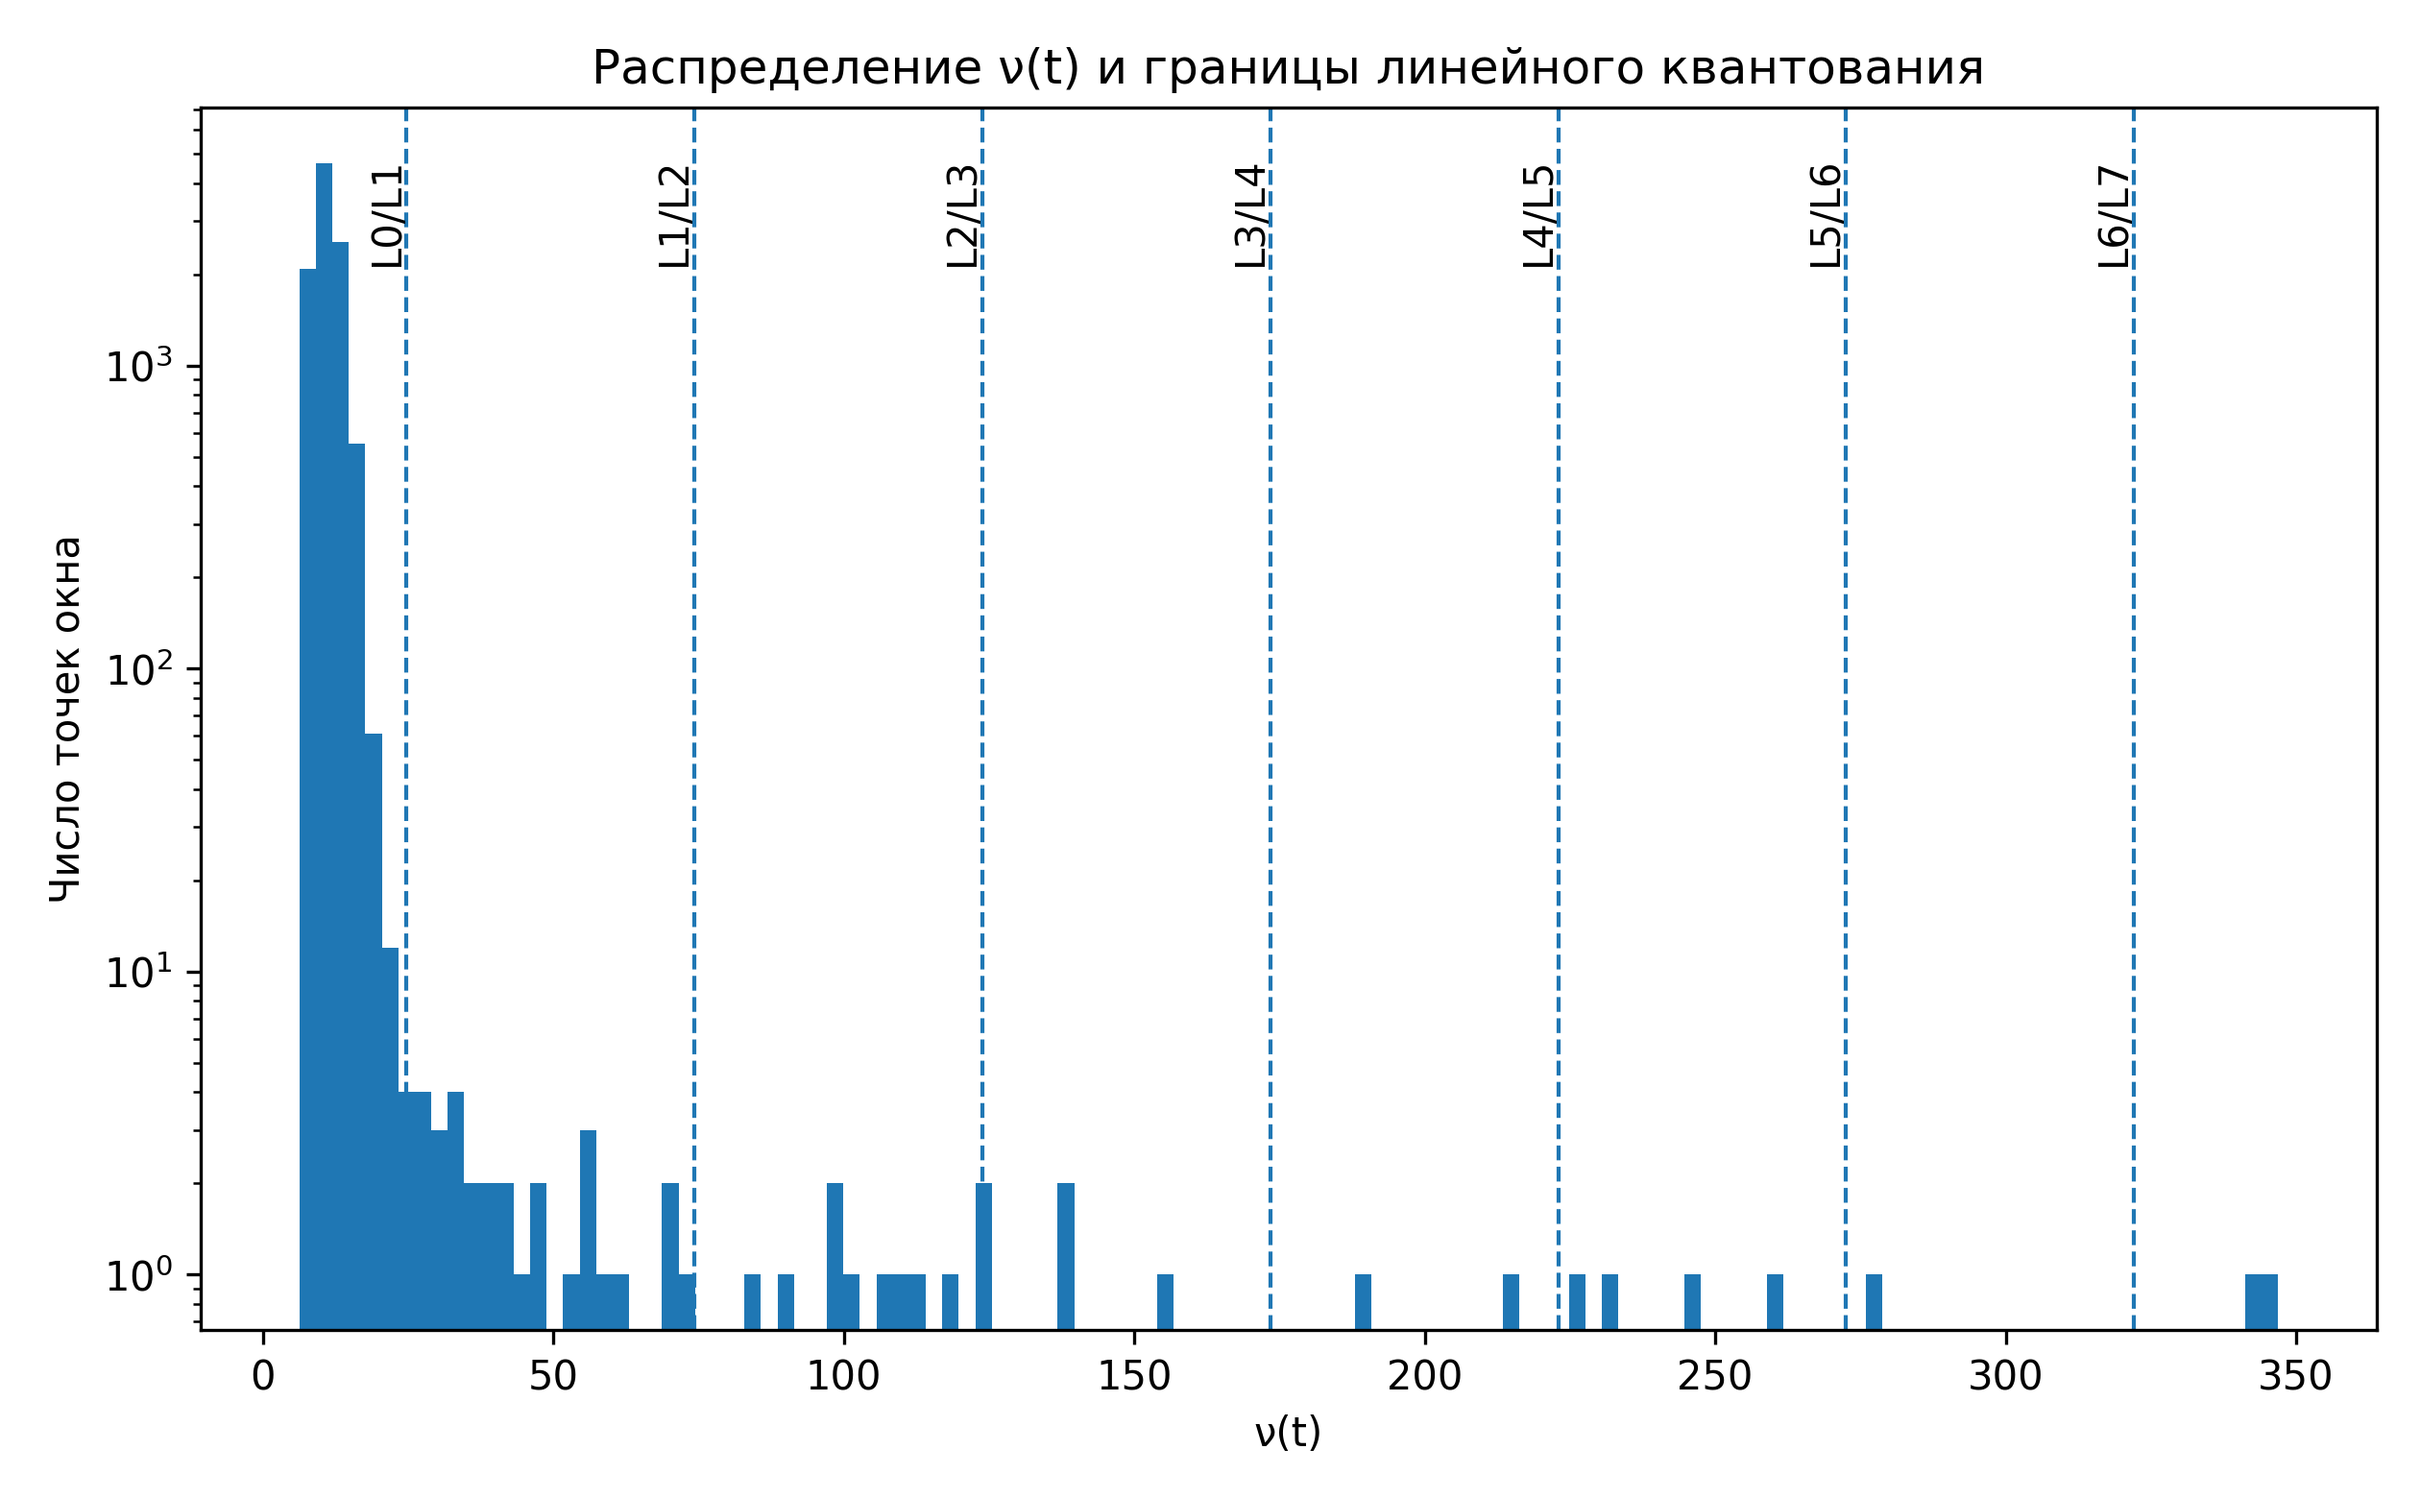
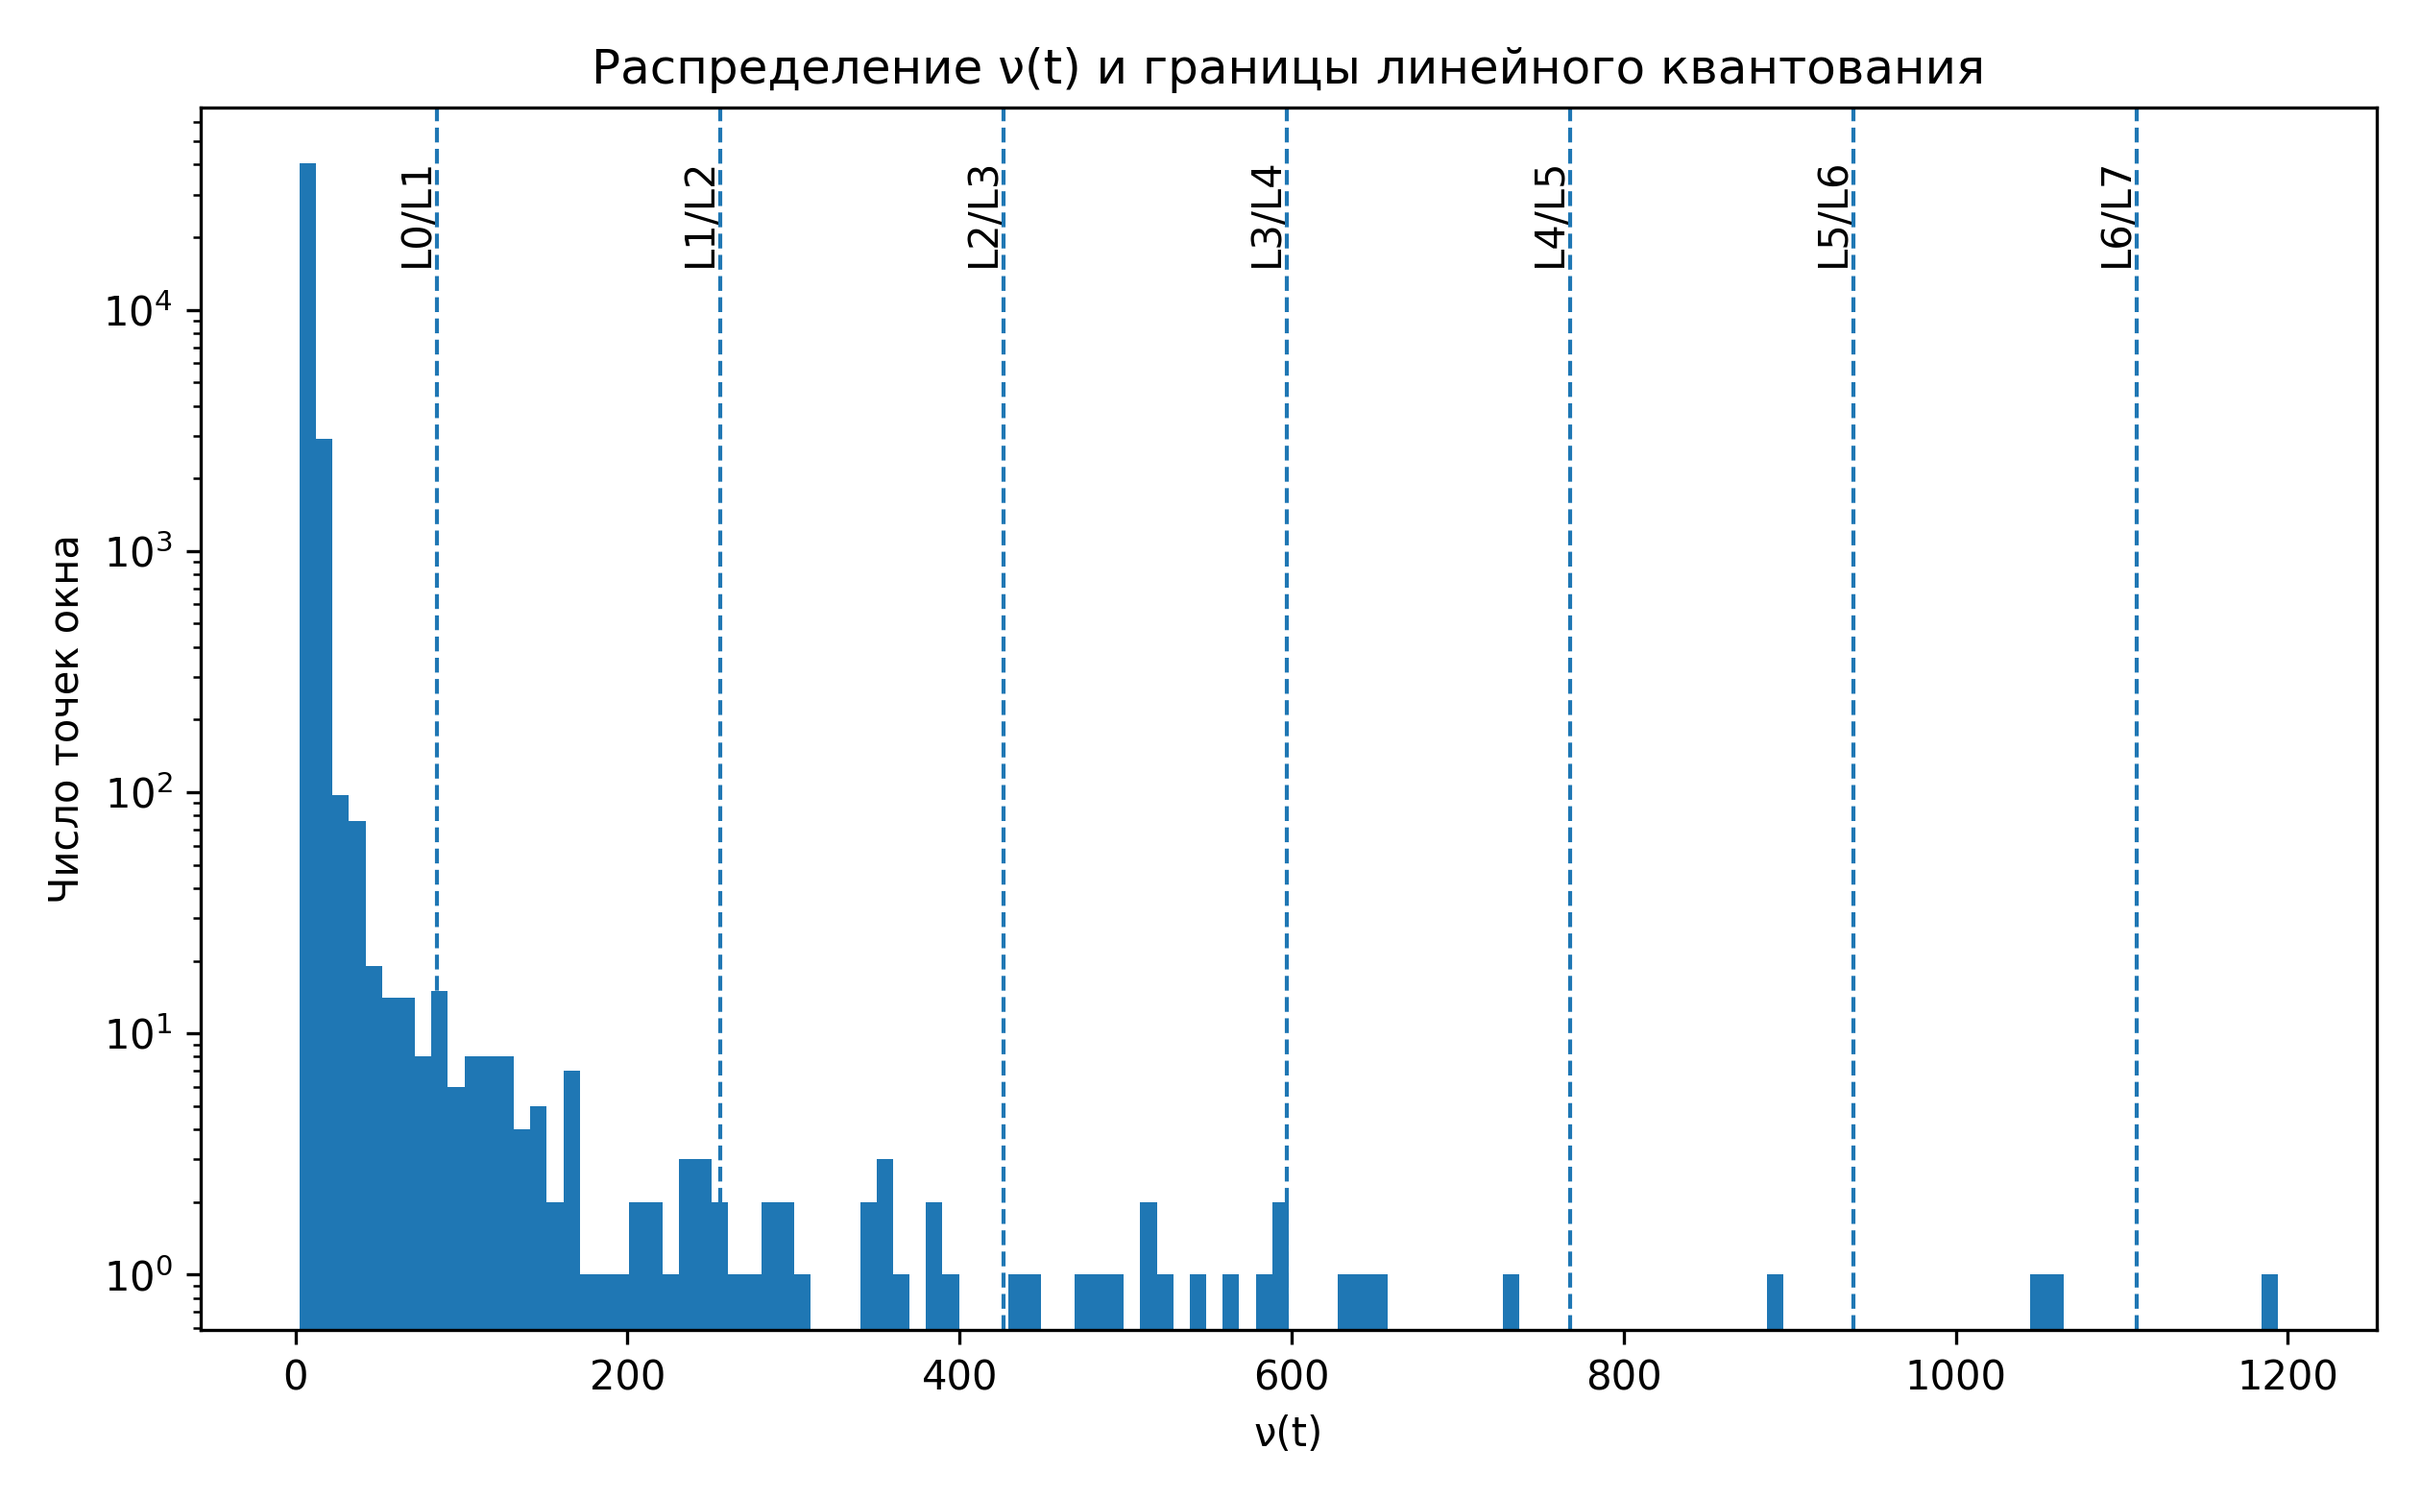
Regenerate paper upset-series diagnostics with full series

diff --git a/results/paper/tables/upsets_window_summary.md b/results/paper/tables/upsets_window_summary.md
@@ -5,46 +5,46 @@
 ## Параметры окна
 
 - Начальный индекс: 0
-- Размер окна: 10000
-- Модельных тактов: 10000
-- Часов ряда на один модельный такт: 1.000000
-- Модельных тактов на один час ряда: 1.000000
+- Размер окна: 43824
+- Модельных тактов: 50000
+- Часов ряда на один модельный такт: 0.876480
+- Модельных тактов на один час ряда: 1.140927
 
 ## Статистика ν(t)
 
-- Минимум: 6.30859889
-- Максимум: 346.840823
-- Среднее: 11.4968614
-- Стандартное отклонение: 9.06335541
-- CV²: 0.62146894
-- η_theory = 1 + CV²: 1.62146894
-- Сумма значений окна: 114968.614
+- Минимум: 2.47950109
+- Максимум: 1193.96355
+- Среднее: 7.07276729
+- Стандартное отклонение: 17.6719569
+- CV²: 6.24295992
+- η_theory = 1 + CV²: 7.24295992
+- Сумма значений окна: 309956.954
 
 ## Параметры инжекции
 
-- Одиночных событий: 80
-- Накопительных пар: 20
+- Одиночных событий: 400
+- Накопительных пар: 100
 - Мгновенных кластерных событий: 10
-- Строк инжекции без кластеров: 120
-- Строк инжекции с кластерами: 130
+- Строк инжекции без кластеров: 600
+- Строк инжекции с кластерами: 610
 - Число кодовых слов в имитационной памяти: 16
-- Плотность строк инжекции без кластеров на кодовое слово: 7.500000
-- Плотность строк инжекции с кластерами на кодовое слово: 8.125000
+- Плотность строк инжекции без кластеров на кодовое слово: 37.500000
+- Плотность строк инжекции с кластерами на кодовое слово: 38.125000
 
 ## Распределение управляющих уровней
 
 | Уровень | Число точек | Доля |
 |---:|---:|---:|
-| 0 | 9947 | 0.994700 |
-| 1 | 30 | 0.003000 |
-| 2 | 10 | 0.001000 |
-| 3 | 4 | 0.000400 |
-| 4 | 2 | 0.000200 |
-| 5 | 4 | 0.000400 |
-| 6 | 1 | 0.000100 |
-| 7 | 2 | 0.000200 |
+| 0 | 43714 | 0.997490 |
+| 1 | 73 | 0.001666 |
+| 2 | 16 | 0.000365 |
+| 3 | 11 | 0.000251 |
+| 4 | 6 | 0.000137 |
+| 5 | 1 | 0.000023 |
+| 6 | 2 | 0.000046 |
+| 7 | 1 | 0.000023 |
 
-Число изменений управляющего уровня: 14
+Число изменений управляющего уровня: 44
 
 ## Методическое пояснение
 

diff --git a/results/paper/tables/control_quantization_summary.md b/results/paper/tables/control_quantization_summary.md
@@ -5,25 +5,25 @@
 ## Параметры
 
 - Начальный индекс: 0
-- Размер окна: 10000
-- Модельных тактов: 10000
-- Максимум окна: 346.840823
-- Среднее окна: 11.4968614
-- CV² окна: 0.62146894
-- η_theory = 1 + CV²: 1.62146894
+- Размер окна: 43824
+- Модельных тактов: 50000
+- Максимум окна: 1193.96355
+- Среднее окна: 7.07276729
+- CV² окна: 6.24295992
+- η_theory = 1 + CV²: 7.24295992
 
 ## Распределение уровней
 
 | Уровень | Число точек | Доля |
 |---:|---:|---:|
-| 0 | 9947 | 0.994700 |
-| 1 | 30 | 0.003000 |
-| 2 | 10 | 0.001000 |
-| 3 | 4 | 0.000400 |
-| 4 | 2 | 0.000200 |
-| 5 | 4 | 0.000400 |
-| 6 | 1 | 0.000100 |
-| 7 | 2 | 0.000200 |
+| 0 | 43714 | 0.997490 |
+| 1 | 73 | 0.001666 |
+| 2 | 16 | 0.000365 |
+| 3 | 11 | 0.000251 |
+| 4 | 6 | 0.000137 |
+| 5 | 1 | 0.000023 |
+| 6 | 2 | 0.000046 |
+| 7 | 1 | 0.000023 |
 
 ## Пояснение
 
